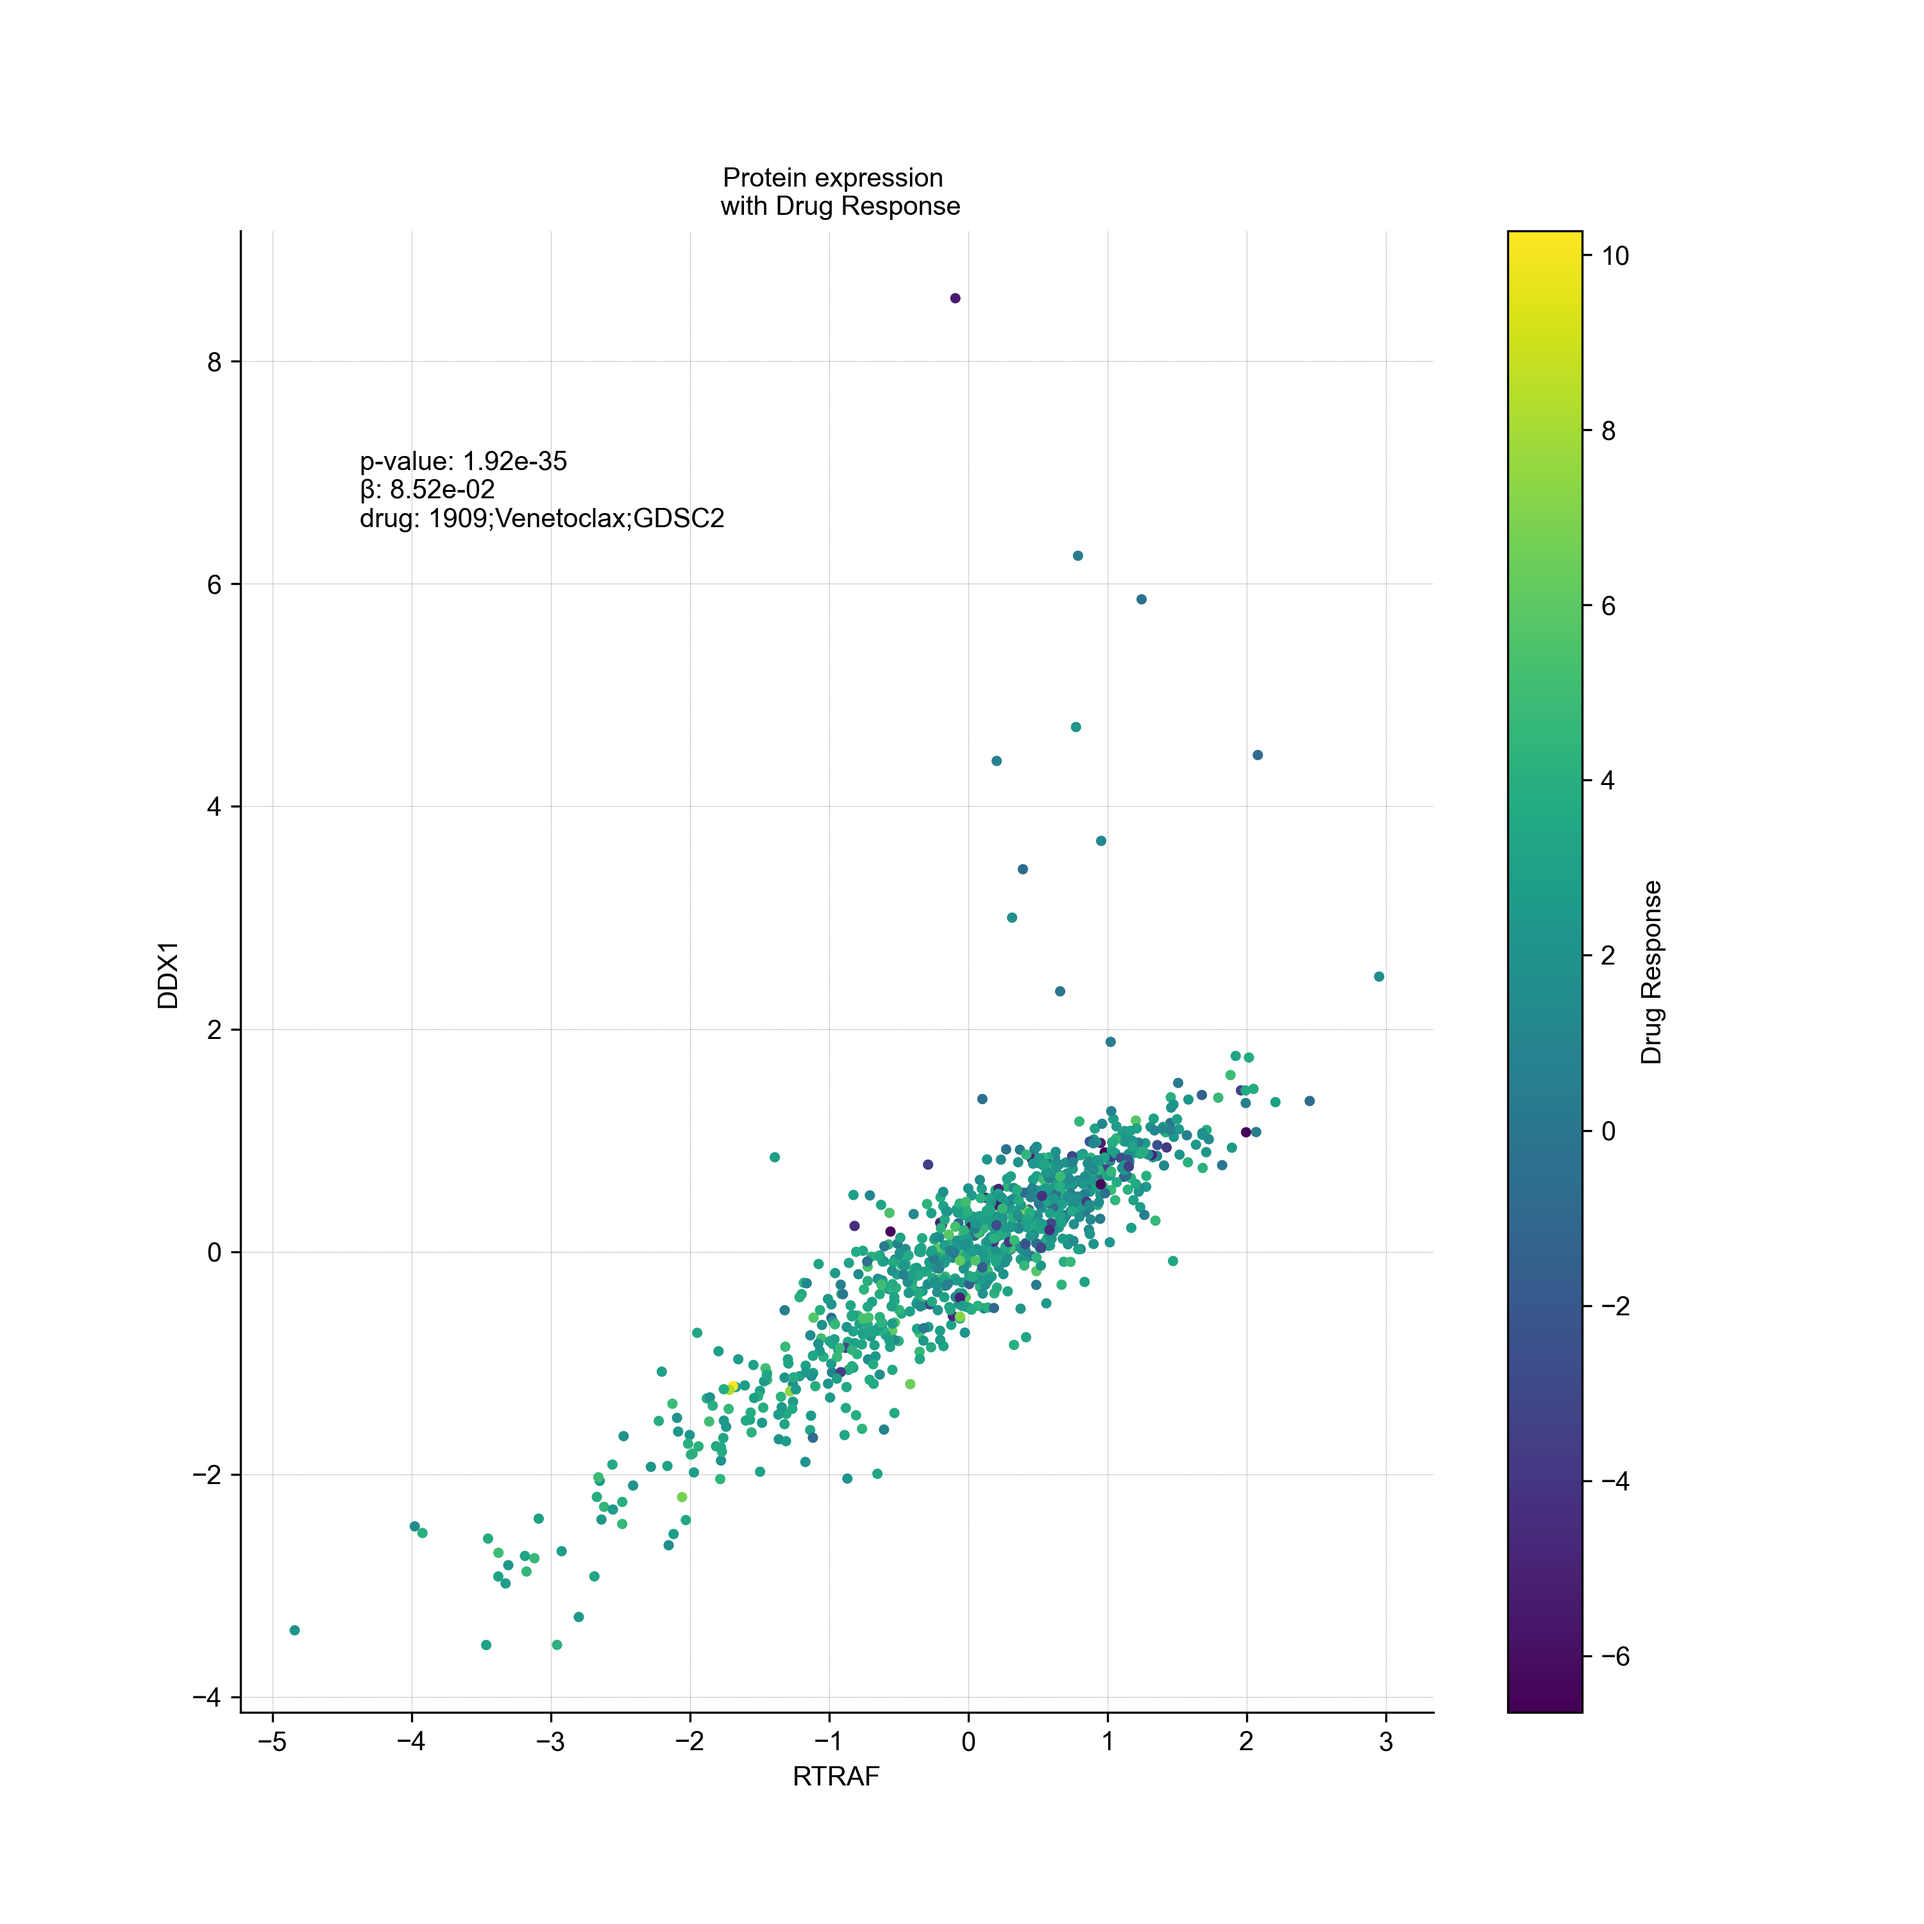
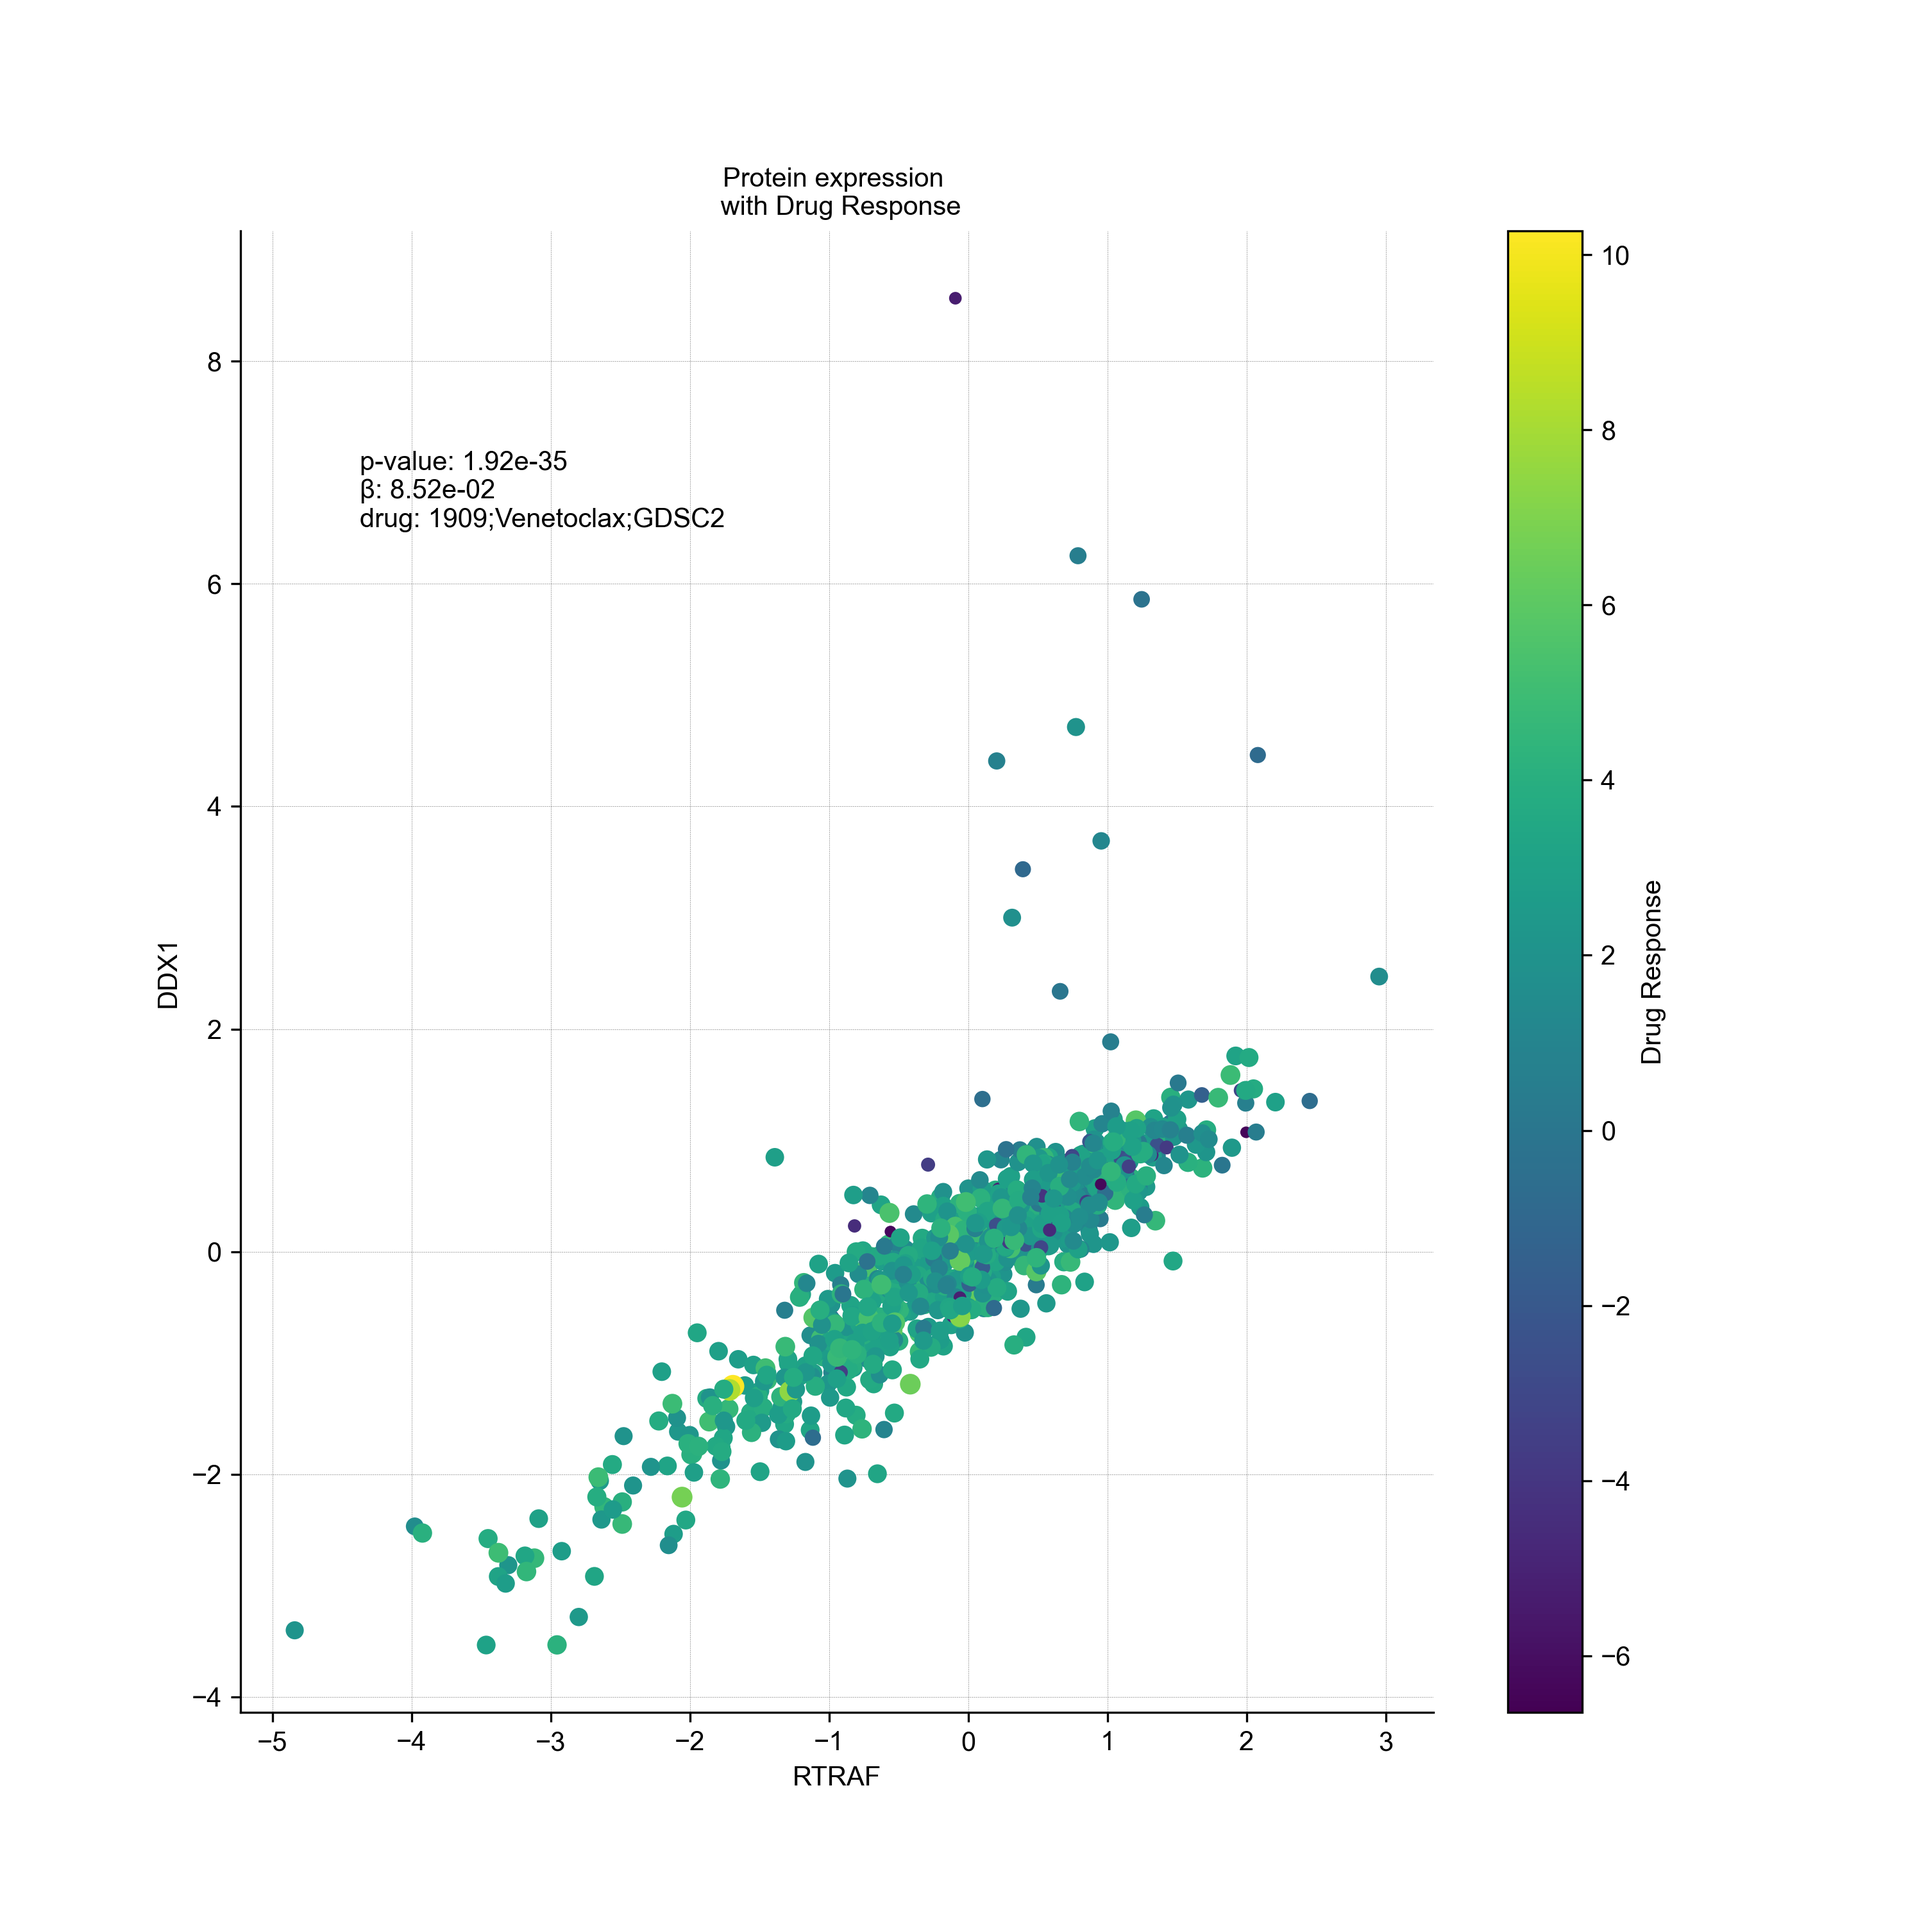
Scatterplot now has both size and colour by drug response

Changed region(s): [[0.248, 0.527, 0.682, 0.837], [0.279, 0.837, 0.31, 0.868]]

diff --git a/src/resources/classes.py b/src/resources/classes.py
@@ -723,7 +723,7 @@ class ProteinsMatrix(MatrixData):
 
 
         plt.figure(figsize=(10, 10))
-        scatter = sns.scatterplot(data=plottingData, x=pxName, y=pyName, hue=drug, palette="viridis", alpha=1, edgecolor='none', s=15)
+        scatter = sns.scatterplot(data=plottingData, x=pxName, y=pyName, hue=drug, size=drug, palette="viridis", alpha=1, edgecolor='none', s=15)
         norm = matplotlib.colors.Normalize(vmin=drugResponse.min(), vmax=drugResponse.max())
         # Add Colour Map
         sm = plt.cm.ScalarMappable(cmap="viridis", norm=norm)
